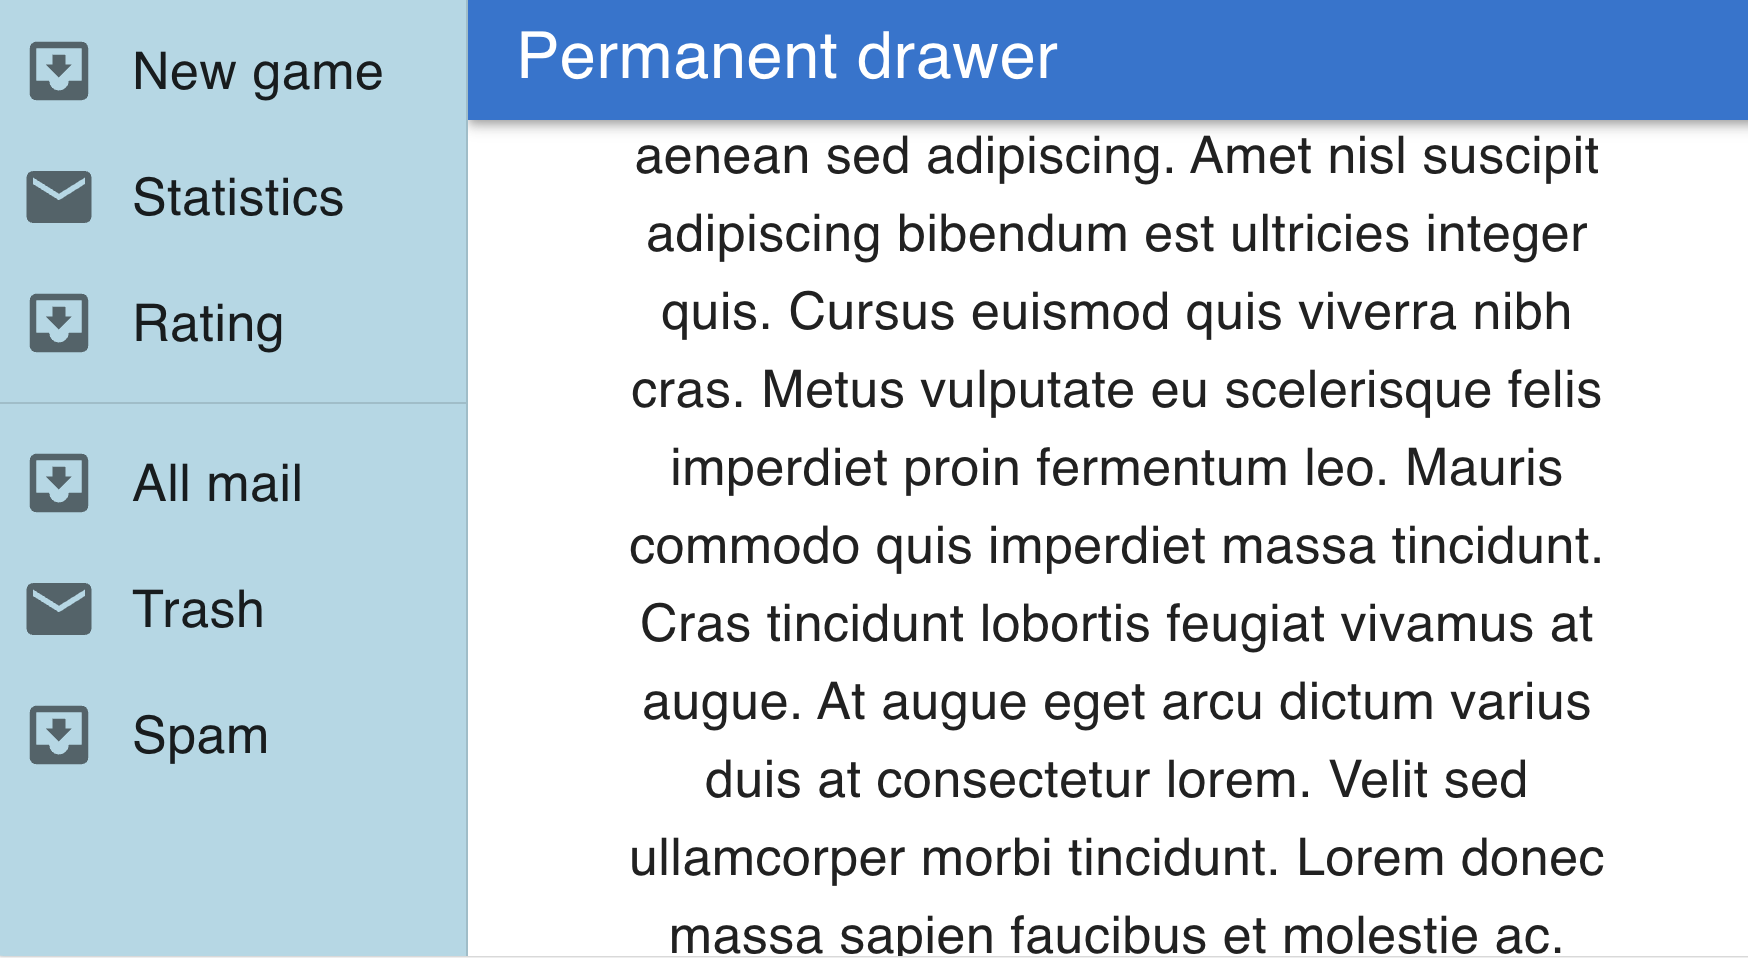
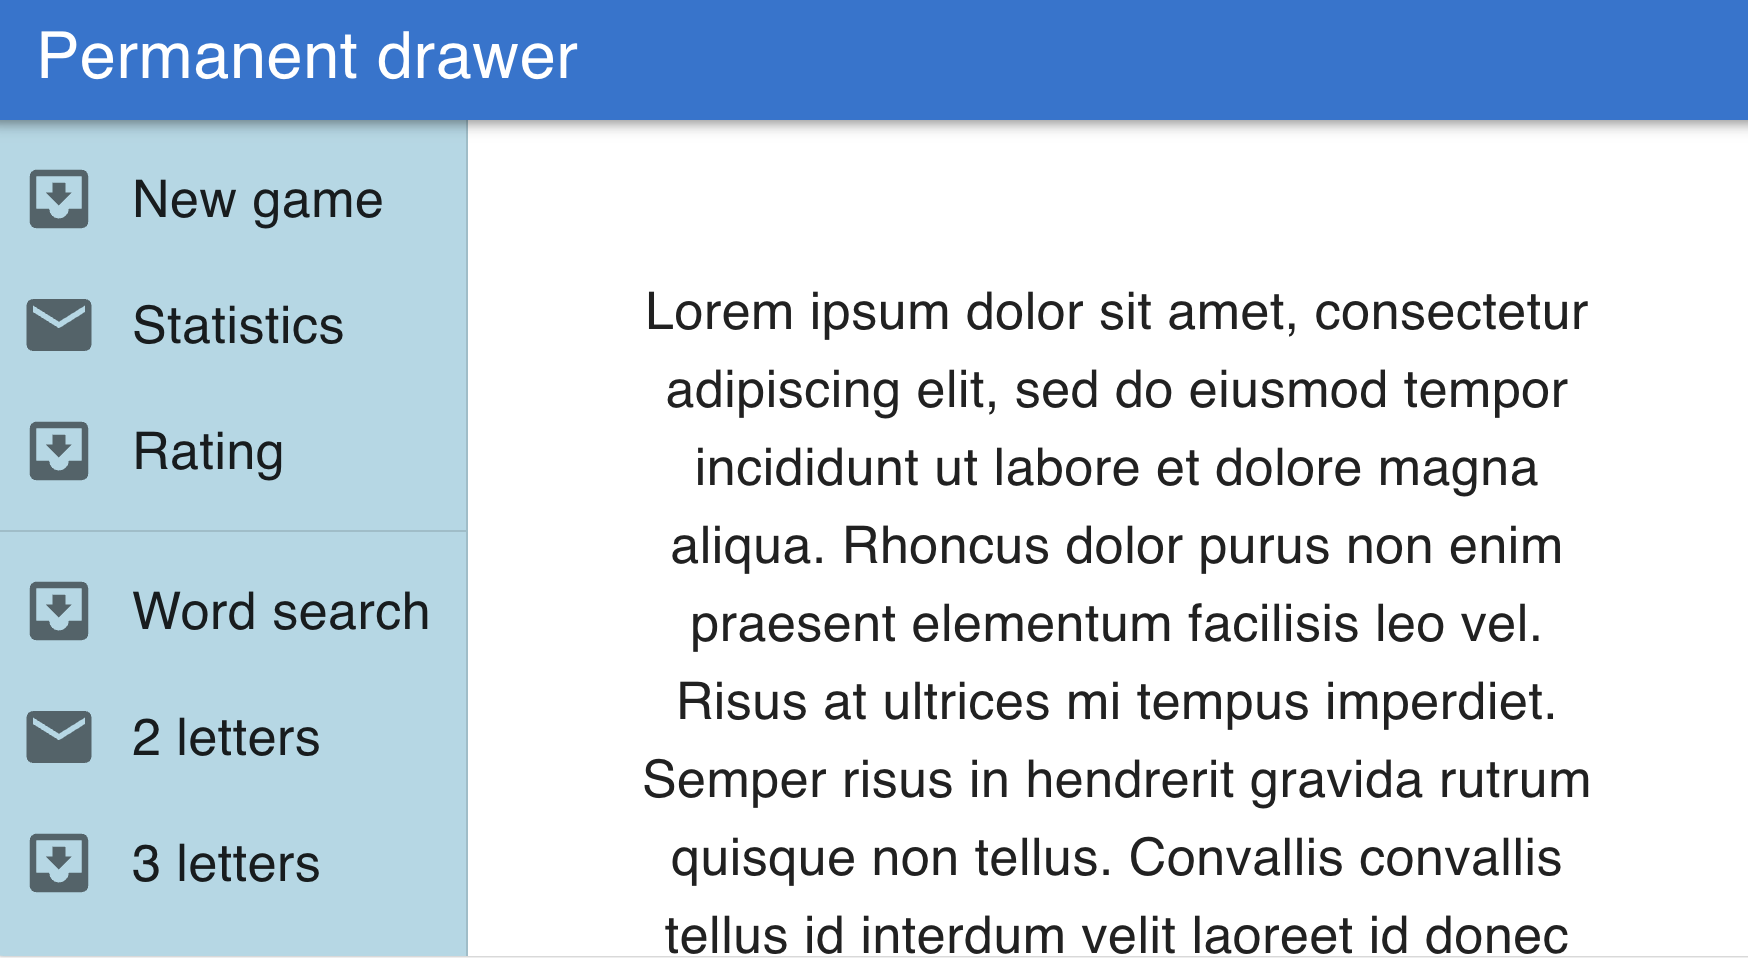
Add more items to the Drawer

diff --git a/permanent-drawer/src/components/LeftDrawer.jsx b/permanent-drawer/src/components/LeftDrawer.jsx
@@ -80,9 +80,23 @@ export default function LeftDrawer() {
         </List>
         <Divider />
         <List>
-          {["All mail", "Trash", "Spam"].map((text, index) => (
+          {[
+            "Word search",
+            "2 letters",
+            "3 letters",
+            "Letter Q",
+            "Letter Z",
+          ].map((text, index) => (
             <MyListItem key={text} index={index} text={text} />
           ))}
+        </List>
+        <Divider />
+        <List>
+          {["Night mode", "Help", "Privacy policy", "Terms of service"].map(
+            (text, index) => (
+              <MyListItem key={text} index={index} text={text} />
+            )
+          )}
         </List>
       </Drawer>
       <Box
